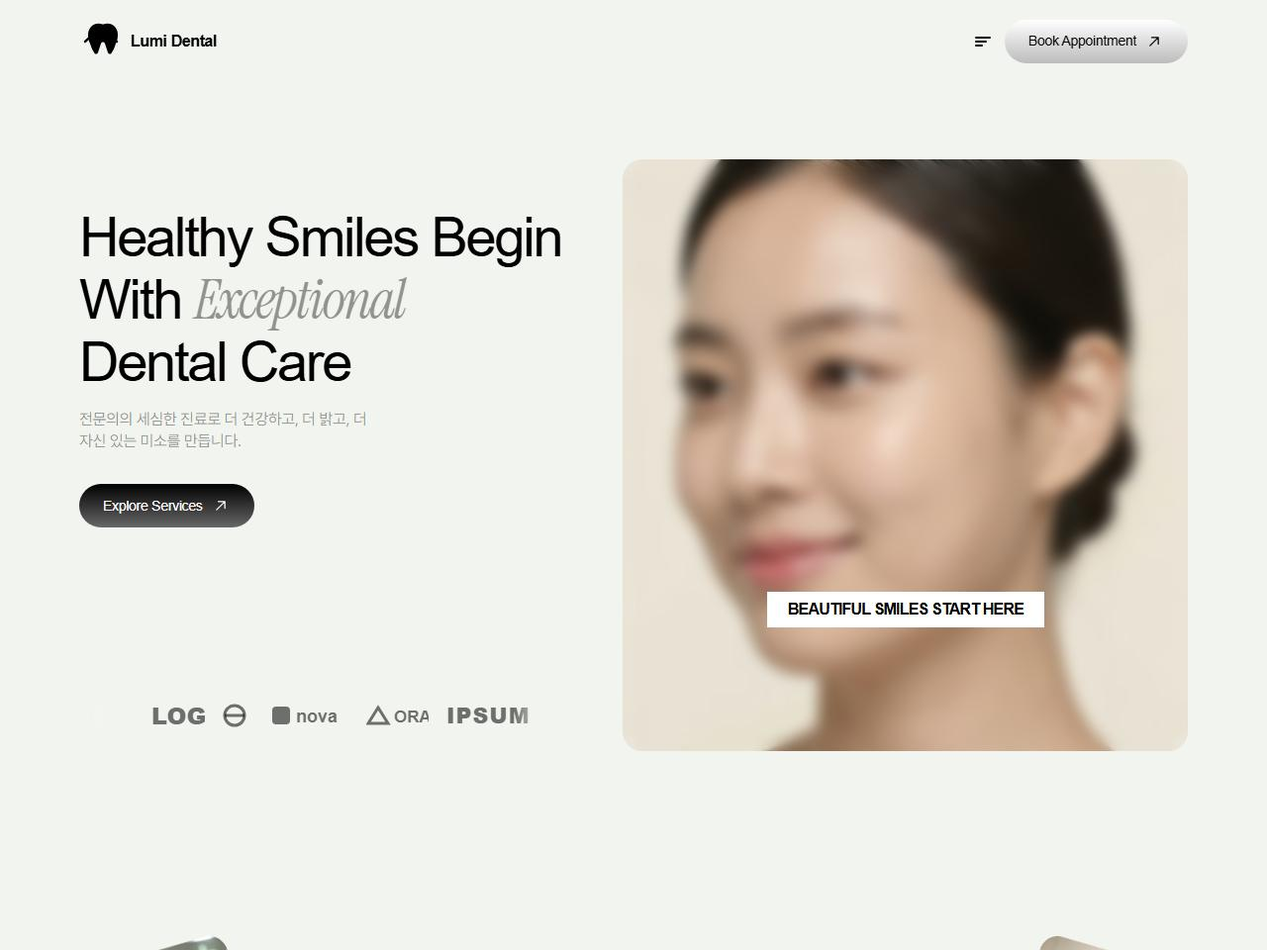
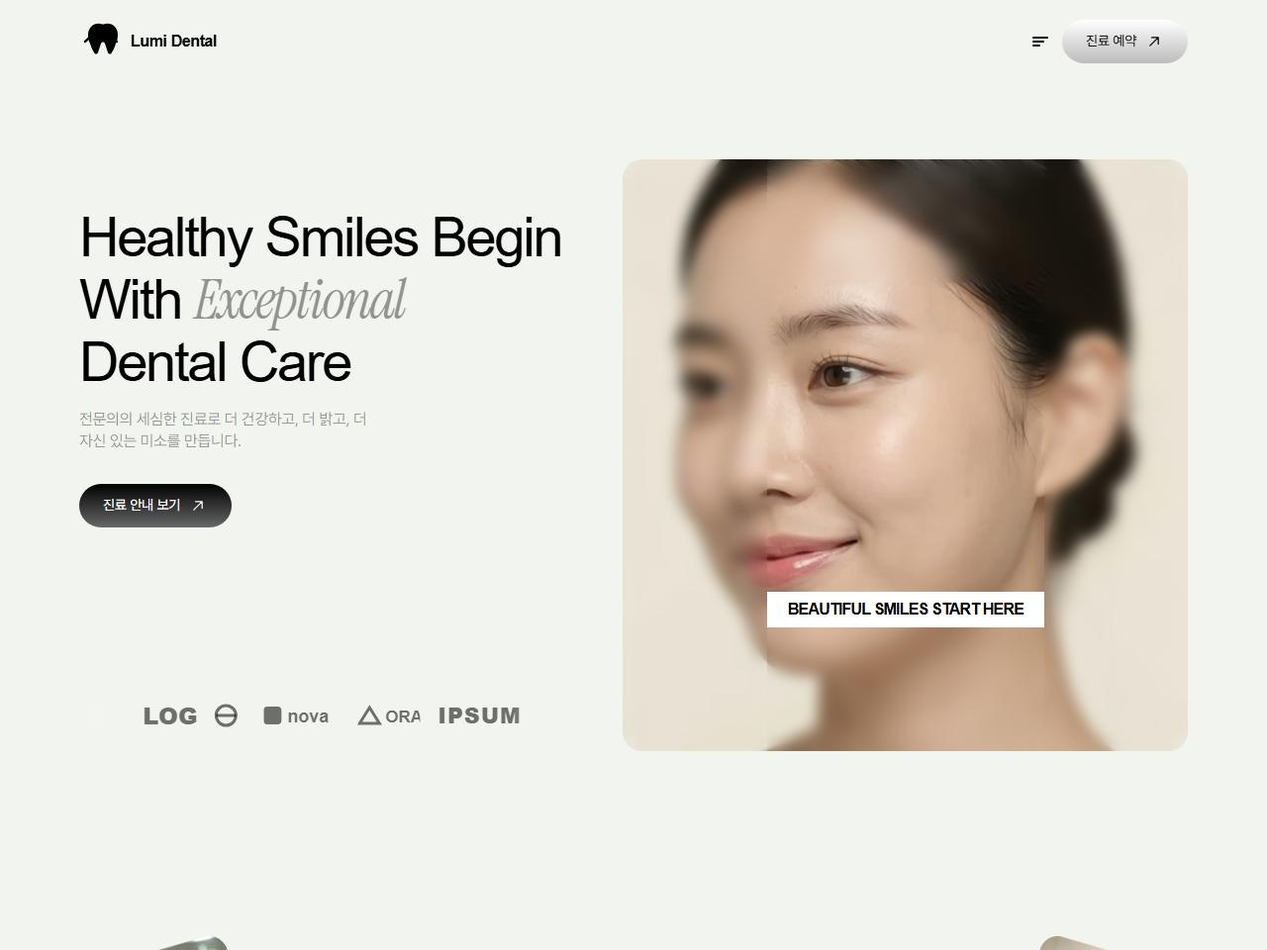
dental-a: 영어 문구 절반 한글화 · 히어로 영상 블러 덮개(4조각) · 한글 강조 서체 정리

diff --git a/public/templates/dental-a-basic/index.html b/public/templates/dental-a-basic/index.html
@@ -34,6 +34,9 @@ body{background:var(--bg);color:#000;font-family:"Helvetica Neue",Helvetica,Aria
 .p.ko{font-family:"Wanted Sans Variable",Inter,sans-serif;letter-spacing:-.3px}
 .h2{font-size:48px;line-height:56.64px;letter-spacing:-2.4px;font-weight:400}
 .h2 i,.h1 i,.h3 i{font-family:"Instrument Serif",serif;font-style:italic;color:var(--mute);letter-spacing:-2.4px}
+.h1.ko,.h2.ko{letter-spacing:-1.6px;font-weight:600}
+.h2 i.ko,.h1 i.ko,.h3.ko i{font-family:"Wanted Sans Variable",sans-serif;font-style:normal;font-weight:500;letter-spacing:-1.6px}
+.t-q .h3.ko i{line-height:inherit;letter-spacing:-.6px}
 .h1{font-size:56px;line-height:62.72px;letter-spacing:-2.24px;font-weight:400}
 .h1 i{letter-spacing:-2.24px}
 .h3{font-size:32px;line-height:36.48px;letter-spacing:-1.6px;font-weight:400}
@@ -97,8 +100,13 @@ body{background:var(--bg);color:#000;font-family:"Helvetica Neue",Helvetica,Aria
 .ticker svg{height:24px;width:auto;color:rgba(0,0,0,.55)}
 .hero-r{position:relative;width:571px;height:598px;border-radius:20px;overflow:clip;flex:0 0 auto}
 .hero-r>video{position:absolute;inset:0;width:100%;height:100%;object-fit:cover}
-/* 영상 위 블러 덮개 — 폴라로이드 창(146,125 280×348)만 구멍 */
-.hblur{position:absolute;inset:0;backdrop-filter:blur(7px);-webkit-backdrop-filter:blur(7px);clip-path:polygon(evenodd,0 0,100% 0,100% 100%,0 100%,0 0,146px 125px,146px 473px,426px 473px,426px 125px,146px 125px)}
+/* 영상 위 블러 덮개 — 폴라로이드 창(146,125 280×348) 둘레 4조각 (구멍 좌표는 --hx/--hy/--hw/--hh) */
+.hero-r{--hx:146px;--hy:125px;--hw:280px;--hh:348px}
+.hblur i{position:absolute;backdrop-filter:blur(7px);-webkit-backdrop-filter:blur(7px)}
+.hblur .hl{left:0;top:0;bottom:0;width:var(--hx)}
+.hblur .hr{left:calc(var(--hx) + var(--hw));right:0;top:0;bottom:0}
+.hblur .ht{left:var(--hx);width:var(--hw);top:0;height:var(--hy)}
+.hblur .hb{left:var(--hx);width:var(--hw);top:calc(var(--hy) + var(--hh));bottom:0}
 .polaroid{position:absolute;left:146px;top:125px;width:280px;height:348px;display:flex;flex-direction:column;justify-content:flex-end;overflow:clip;z-index:1}
 .polaroid b{position:relative}
 .polaroid b{display:block;background:#fff;padding:9px 20px;font-size:16px;line-height:18.24px;letter-spacing:-.8px;font-weight:700;text-align:center;text-transform:uppercase}
@@ -339,7 +347,7 @@ html.js .hero .btn{animation:up70 1s cubic-bezier(.16,1,.3,1) .6s both}
   .hero-l{height:auto;gap:64px;padding-bottom:0;width:100%}
   .hero-r{width:100%;height:550px}
   .polaroid{left:50%;margin-left:-140px;top:100px}
-  .hblur{clip-path:polygon(evenodd,0 0,100% 0,100% 100%,0 100%,0 0,calc(50% - 140px) 100px,calc(50% - 140px) 448px,calc(50% + 140px) 448px,calc(50% + 140px) 100px,calc(50% - 140px) 100px)}
+  .hero-r{--hx:calc(50% - 140px);--hy:100px}
   .about-t .h2{white-space:normal;max-width:760px}
   .about-t img{display:none}
   .cards4{flex-wrap:wrap}
@@ -451,7 +459,7 @@ html.js .hero .btn{animation:up70 1s cubic-bezier(.16,1,.3,1) .6s both}
   .why-img{display:none}
   .hero-r{aspect-ratio:571/598}
   .polaroid{top:50%;margin-top:-92px}
-  .hblur{clip-path:polygon(evenodd,0 0,100% 0,100% 100%,0 100%,0 0,calc(50% - 74px) calc(50% - 92px),calc(50% - 74px) calc(50% + 92px),calc(50% + 74px) calc(50% + 92px),calc(50% + 74px) calc(50% - 92px),calc(50% - 74px) calc(50% - 92px))}
+  .hero-r{--hx:calc(50% - 74px);--hy:calc(50% - 92px);--hw:148px;--hh:184px}
   .ba{aspect-ratio:728/371}
   .em .slat{aspect-ratio:3/2}
   .doc .doc-d.m{display:flex}
@@ -530,7 +538,7 @@ html.js .hero .btn{animation:up70 1s cubic-bezier(.16,1,.3,1) .6s both}
       <a href="#" class="logo" aria-label="루미덴탈 홈"><svg><use href="#i-tooth"/></svg><b>Lumi Dental</b></a>
       <button class="burger" type="button" aria-label="메뉴 열기" aria-expanded="false" aria-controls="menu"><i></i><i></i><i></i></button>
     </div>
-    <a href="/contact?design=HOSP-1001" class="btn lt"><span class="tx"><span>Book Appointment</span><span>Book Appointment</span></span><span class="ar"><svg><use href="#i-arrow"/></svg><svg><use href="#i-arrow"/></svg></span></a>
+    <a href="/contact?design=HOSP-1001" class="btn lt"><span class="tx"><span>진료 예약</span><span>진료 예약</span></span><span class="ar"><svg><use href="#i-arrow"/></svg><svg><use href="#i-arrow"/></svg></span></a>
   </div>
   <nav class="menu" id="menu" aria-label="전체 메뉴">
     <ul>
@@ -549,7 +557,7 @@ html.js .hero .btn{animation:up70 1s cubic-bezier(.16,1,.3,1) .6s both}
           <h1 class="h1">Healthy Smiles Begin<br>With <i>Exceptional</i><br>Dental Care</h1>
           <p class="p ko">전문의의 세심한 진료로 더 건강하고, 더 밝고, 더 자신 있는 미소를 만듭니다.</p>
         </div>
-        <a href="#services" class="btn"><span class="tx"><span>Explore Services</span><span>Explore Services</span></span><span class="ar"><svg><use href="#i-arrow"/></svg><svg><use href="#i-arrow"/></svg></span></a>
+        <a href="#services" class="btn"><span class="tx"><span>진료 안내 보기</span><span>진료 안내 보기</span></span><span class="ar"><svg><use href="#i-arrow"/></svg><svg><use href="#i-arrow"/></svg></span></a>
       </div>
       <div class="ticker" aria-label="협력 브랜드">
         <ul id="ticker">
@@ -566,7 +574,7 @@ html.js .hero .btn{animation:up70 1s cubic-bezier(.16,1,.3,1) .6s both}
     </div>
     <div class="hero-r">
       <video src="../dental-a/assets/hero.mp4" poster="../dental-a/assets/hero.jpg" autoplay muted loop playsinline aria-label="미소 짓는 환자 영상"></video>
-      <div class="hblur" aria-hidden="true"></div>
+      <div class="hblur" aria-hidden="true"><i class="hl"></i><i class="hr"></i><i class="ht"></i><i class="hb"></i></div>
       <div class="polaroid"><b>Beautiful smiles start here</b></div>
     </div>
   </div>
@@ -578,9 +586,9 @@ html.js .hero .btn{animation:up70 1s cubic-bezier(.16,1,.3,1) .6s both}
     <div class="about-t rv">
       <img class="l" src="../dental-a/assets/about-1.jpg" alt="" width="168" height="169">
       <img class="r" src="../dental-a/assets/about-2.jpg" alt="" width="168" height="169">
-      <h2 class="h2"><i>Trusted dental care,</i><br class="m"> advanced<br>technology, <i>and personalized</i> treatments<br>for healthier, confident <i>smiles.</i></h2>
+      <h2 class="h2 ko"><i class="ko">믿을 수 있는 진료,</i> 앞선 기술,<br>그리고 <i class="ko">나에게 맞춘</i> 치료로<br>더 건강하고 자신 있는 <i class="ko">미소를.</i></h2>
     </div>
-    <a href="/contact?design=HOSP-1001" class="btn rv" style="--d:.1s"><span class="tx"><span>Book Appointment</span><span>Book Appointment</span></span><span class="ar"><svg><use href="#i-arrow"/></svg><svg><use href="#i-arrow"/></svg></span></a>
+    <a href="/contact?design=HOSP-1001" class="btn rv" style="--d:.1s"><span class="tx"><span>진료 예약</span><span>진료 예약</span></span><span class="ar"><svg><use href="#i-arrow"/></svg><svg><use href="#i-arrow"/></svg></span></a>
   </div>
 </section>
 
@@ -623,7 +631,7 @@ html.js .hero .btn{animation:up70 1s cubic-bezier(.16,1,.3,1) .6s both}
 <!-- 결과: 비포 애프터 -->
 <section class="sec result" id="results">
   <div class="wrap">
-    <div class="head rv"><h2 class="h2">Real Results. Brighter,<br><i>Confident Smiles</i></h2></div>
+    <div class="head rv"><h2 class="h2 ko">치료 전과 후,<br><i class="ko">달라진 미소</i></h2></div>
     <div class="ba" id="ba">
       <img src="../dental-a/assets/before.jpg" alt="치료 전" width="1440" height="900">
       <img class="aft" src="../dental-a/assets/after.jpg" alt="치료 후" width="1440" height="900">
@@ -637,8 +645,8 @@ html.js .hero .btn{animation:up70 1s cubic-bezier(.16,1,.3,1) .6s both}
 <section class="sec em" id="emergency">
   <div class="wrap">
     <div class="head rv">
-      <div class="hh"><h2 class="h2">Expert Care When You <i>Need It Most.</i></h2><p class="p ko">갑작스러운 통증과 치아 외상은 예고 없이 찾아옵니다. 루미덴탈은 급한 치료가 필요한 순간에 빠르고 따뜻하게 대응합니다.</p></div>
-      <a href="tel:01048944905" class="btn"><span class="tx"><span>Get Emergency Care</span><span>Get Emergency Care</span></span><span class="ar"><svg><use href="#i-arrow"/></svg><svg><use href="#i-arrow"/></svg></span></a>
+      <div class="hh"><h2 class="h2 ko">가장 급할 때, <i class="ko">가장 먼저 찾는 치과</i></h2><p class="p ko">갑작스러운 통증과 치아 외상은 예고 없이 찾아옵니다. 루미덴탈은 급한 치료가 필요한 순간에 빠르고 따뜻하게 대응합니다.</p></div>
+      <a href="tel:01048944905" class="btn"><span class="tx"><span>응급 진료 문의</span><span>응급 진료 문의</span></span><span class="ar"><svg><use href="#i-arrow"/></svg><svg><use href="#i-arrow"/></svg></span></a>
     </div>
     <div class="slat" data-slat><img src="../dental-a/assets/emergency.jpg" alt="응급 진료 중인 의료진" width="930" height="538" loading="lazy" decoding="async"><div class="sl"><i></i><i></i><i></i><i></i><i></i></div></div>
   </div>
@@ -661,7 +669,7 @@ html.js .hero .btn{animation:up70 1s cubic-bezier(.16,1,.3,1) .6s both}
   <div class="wrap">
     <div class="jc">
       <div class="jc-top rv">
-        <div class="jc-h"><h2 class="h2">Your Journey To A<br><i>Healthier Smile</i></h2><p class="p ko">가장 건강하고 자신 있는 미소까지, 전문의가 한 걸음씩 안내합니다.</p></div>
+        <div class="jc-h"><h2 class="h2 ko">더 건강한 미소로<br><i class="ko">가는 네 단계</i></h2><p class="p ko">가장 건강하고 자신 있는 미소까지, 전문의가 한 걸음씩 안내합니다.</p></div>
         <div class="slat" data-slat><img src="../dental-a/assets/journey.jpg" alt="진료 중인 치과의사" width="645" height="442" loading="lazy" decoding="async"><div class="sl"><i></i><i></i><i></i><i></i><i></i></div></div>
       </div>
       <div class="jsteps">
@@ -678,7 +686,7 @@ html.js .hero .btn{animation:up70 1s cubic-bezier(.16,1,.3,1) .6s both}
 <!-- 의료진 -->
 <section class="sec exp" id="doctors">
   <div class="wrap">
-    <h2 class="h2 rv">Meet Our Expert<br><i>Dental Specialists</i></h2>
+    <h2 class="h2 ko rv">루미덴탈<br><i class="ko">의료진 소개</i></h2>
     <div class="docs">
       <a href="#" class="doc rv"><img src="../dental-a/assets/doc-1.jpg" alt="교정과 전문의 한지민" width="234" height="256" loading="lazy" decoding="async"><div class="doc-d m"><div class="nm"><h4 class="h4 ko">한지민 원장</h4><p class="p ko">치아 교정</p></div><div class="ex"><i></i><span class="p">Exp:</span><b>20+ Years</b></div></div></a>
       <a href="#" class="doc rv" style="--d:.1s"><img src="../dental-a/assets/doc-2.jpg" alt="임플란트 전문의 정우진" width="234" height="256" loading="lazy" decoding="async"><div class="doc-d m"><div class="nm"><h4 class="h4 ko">정우진 원장</h4><p class="p ko">임플란트</p></div><div class="ex"><i></i><span class="p">Exp:</span><b>20+ Years</b></div></div></a>
@@ -693,8 +701,8 @@ html.js .hero .btn{animation:up70 1s cubic-bezier(.16,1,.3,1) .6s both}
   <div class="wrap">
     <div class="slat" data-slat><img src="../dental-a/assets/stories.jpg" alt="웃고 있는 환자와 의사" width="540" height="359" loading="lazy" decoding="async"><div class="sl"><i></i><i></i><i></i><i></i><i></i></div></div>
     <div class="st-t rv">
-      <div class="hh"><h1 class="h1">Real Patients. Real<br>Smiles. <i>Real Experiences</i></h1><p class="p ko">모든 미소에는 이야기가 있습니다. 맞춤 진료와 첨단 치료, 따뜻한 태도가 삶을 어떻게 바꿨는지 확인해 보세요.</p></div>
-      <a href="#reviews" class="btn"><span class="tx"><span>Read Patient Stories</span><span>Read Patient Stories</span></span><span class="ar"><svg><use href="#i-arrow"/></svg><svg><use href="#i-arrow"/></svg></span></a>
+      <div class="hh"><h1 class="h1 ko">환자들이 직접<br>전하는 <i class="ko">진짜 이야기</i></h1><p class="p ko">모든 미소에는 이야기가 있습니다. 맞춤 진료와 첨단 치료, 따뜻한 태도가 삶을 어떻게 바꿨는지 확인해 보세요.</p></div>
+      <a href="#reviews" class="btn"><span class="tx"><span>환자 이야기 보기</span><span>환자 이야기 보기</span></span><span class="ar"><svg><use href="#i-arrow"/></svg><svg><use href="#i-arrow"/></svg></span></a>
     </div>
   </div>
 </section>
@@ -734,7 +742,7 @@ html.js .hero .btn{animation:up70 1s cubic-bezier(.16,1,.3,1) .6s both}
   <div class="wrap">
     <div class="faq-h rv">
       <div class="hh"><h2 class="h2">Frequently Asked <i>Questions</i></h2><p class="p ko">진료와 치료에 대해 환자분들이 가장 많이 묻는 질문을 모았습니다. 더 궁금한 점은 언제든 문의해 주세요.</p></div>
-      <a href="/contact?design=HOSP-1001" class="btn sm"><span class="tx"><span>All FAQ</span><span>All FAQ</span></span><span class="ar"><svg><use href="#i-arrow"/></svg><svg><use href="#i-arrow"/></svg></span></a>
+      <a href="/contact?design=HOSP-1001" class="btn sm"><span class="tx"><span>전체 질문 보기</span><span>전체 질문 보기</span></span><span class="ar"><svg><use href="#i-arrow"/></svg><svg><use href="#i-arrow"/></svg></span></a>
     </div>
     <div class="faqs">
       <div class="qa open rv y50"><button class="qa-q" type="button" aria-expanded="true"><span class="qn"><span class="num">01</span><span class="h4 ko">치과는 얼마나 자주 방문해야 하나요?</span></span><span class="ic"><i></i></span></button><div class="qa-a"><div><p class="p ko">정기 검진과 스케일링을 위해 6개월에 한 번 방문을 권합니다. 문제를 조기에 발견하고 구강 건강을 가장 좋은 상태로 유지할 수 있습니다.</p></div></div></div>
@@ -751,7 +759,7 @@ html.js .hero .btn{animation:up70 1s cubic-bezier(.16,1,.3,1) .6s both}
   <div class="wrap">
     <div class="ins-h rv">
       <h2 class="h2">Dental <i>Insights</i></h2>
-      <a href="#" class="btn sm"><span class="tx"><span>View All</span><span>View All</span></span><span class="ar"><svg><use href="#i-arrow"/></svg><svg><use href="#i-arrow"/></svg></span></a>
+      <a href="#" class="btn sm"><span class="tx"><span>전체 보기</span><span>전체 보기</span></span><span class="ar"><svg><use href="#i-arrow"/></svg><svg><use href="#i-arrow"/></svg></span></a>
     </div>
     <div class="icards">
       <a href="#" class="ic-c rv"><span class="h6 cat ko">치아 관리 팁</span><img src="../dental-a/assets/insight-1.jpg" alt="" width="265" height="178" decoding="async"><h5 class="h5 ko">더 건강하고 밝은 미소를 위한 하루 다섯 가지 습관</h5></a>
@@ -766,7 +774,7 @@ html.js .hero .btn{animation:up70 1s cubic-bezier(.16,1,.3,1) .6s both}
 <section class="sec find" id="visit">
   <div class="wrap">
     <div class="find-top rv">
-      <div class="find-h"><h2 class="h2">Visit <i>Lumi Dental</i></h2><p class="p ko">편안함과 세심함, 그리고 자신 있는 미소를 중심에 둔 진료 공간입니다.</p></div>
+      <div class="find-h"><h2 class="h2 ko">루미덴탈 <i class="ko">오시는 길</i></h2><p class="p ko">편안함과 세심함, 그리고 자신 있는 미소를 중심에 둔 진료 공간입니다.</p></div>
       <div class="slat" data-slat><img src="../dental-a/assets/clinic.jpg" alt="루미덴탈 건물 외관" width="644" height="318" decoding="async"><div class="sl"><i></i><i></i><i></i><i></i><i></i></div></div>
     </div>
     <div class="find-b rv">
@@ -778,7 +786,7 @@ html.js .hero .btn{animation:up70 1s cubic-bezier(.16,1,.3,1) .6s both}
       </ul>
       <div class="find-r">
         <p class="p ko">서울 강남구 테헤란로 12길 34, 루미타워 5층</p>
-        <a href="#" class="btn"><span class="tx"><span>Get Directions</span><span>Get Directions</span></span><span class="ar"><svg><use href="#i-arrow"/></svg><svg><use href="#i-arrow"/></svg></span></a>
+        <a href="#" class="btn"><span class="tx"><span>길 찾기</span><span>길 찾기</span></span><span class="ar"><svg><use href="#i-arrow"/></svg><svg><use href="#i-arrow"/></svg></span></a>
       </div>
     </div>
   </div>
@@ -800,9 +808,9 @@ html.js .hero .btn{animation:up70 1s cubic-bezier(.16,1,.3,1) .6s both}
         <div class="fcol"><p class="h6">SERVICES</p><ul class="ko"><li><a href="#services">일반 진료</a></li><li><a href="#services">심미 치료</a></li><li><a href="#services">임플란트</a></li><li><a href="#services">치아 교정</a></li><li><a href="#emergency">응급 진료</a></li></ul></div>
         <div class="fcol"><p class="h6">GET IN TOUCH</p>
           <ul class="fct">
-            <li><svg><use href="#i-phone"/></svg><div class="lb"><small>CALL US</small><a href="tel:01048944905">010-4894-4905</a></div></li>
-            <li><svg><use href="#i-mail"/></svg><div class="lb"><small>EMAIL US</small><a href="mailto:6gsmake@gmail.com">6gsmake@gmail.com</a></div></li>
-            <li><svg><use href="#i-pin"/></svg><div class="lb"><small>VISIT US</small><a href="#visit" class="ko">서울 강남구 테헤란로 12길 34, 루미타워 5층</a></div></li>
+            <li><svg><use href="#i-phone"/></svg><div class="lb"><small class="ko">전화</small><a href="tel:01048944905">010-4894-4905</a></div></li>
+            <li><svg><use href="#i-mail"/></svg><div class="lb"><small class="ko">이메일</small><a href="mailto:6gsmake@gmail.com">6gsmake@gmail.com</a></div></li>
+            <li><svg><use href="#i-pin"/></svg><div class="lb"><small class="ko">주소</small><a href="#visit" class="ko">서울 강남구 테헤란로 12길 34, 루미타워 5층</a></div></li>
           </ul>
         </div>
       </div>

diff --git a/public/templates/dental-a/index.html b/public/templates/dental-a/index.html
@@ -34,6 +34,9 @@ body{background:var(--bg);color:#000;font-family:"Helvetica Neue",Helvetica,Aria
 .p.ko{font-family:"Wanted Sans Variable",Inter,sans-serif;letter-spacing:-.3px}
 .h2{font-size:48px;line-height:56.64px;letter-spacing:-2.4px;font-weight:400}
 .h2 i,.h1 i,.h3 i{font-family:"Instrument Serif",serif;font-style:italic;color:var(--mute);letter-spacing:-2.4px}
+.h1.ko,.h2.ko{letter-spacing:-1.6px;font-weight:600}
+.h2 i.ko,.h1 i.ko,.h3.ko i{font-family:"Wanted Sans Variable",sans-serif;font-style:normal;font-weight:500;letter-spacing:-1.6px}
+.t-q .h3.ko i{line-height:inherit;letter-spacing:-.6px}
 .h1{font-size:56px;line-height:62.72px;letter-spacing:-2.24px;font-weight:400}
 .h1 i{letter-spacing:-2.24px}
 .h3{font-size:32px;line-height:36.48px;letter-spacing:-1.6px;font-weight:400}
@@ -97,8 +100,13 @@ body{background:var(--bg);color:#000;font-family:"Helvetica Neue",Helvetica,Aria
 .ticker svg{height:24px;width:auto;color:rgba(0,0,0,.55)}
 .hero-r{position:relative;width:571px;height:598px;border-radius:20px;overflow:clip;flex:0 0 auto}
 .hero-r>video{position:absolute;inset:0;width:100%;height:100%;object-fit:cover}
-/* 영상 위 블러 덮개 — 폴라로이드 창(146,125 280×348)만 구멍 */
-.hblur{position:absolute;inset:0;backdrop-filter:blur(7px);-webkit-backdrop-filter:blur(7px);clip-path:polygon(evenodd,0 0,100% 0,100% 100%,0 100%,0 0,146px 125px,146px 473px,426px 473px,426px 125px,146px 125px)}
+/* 영상 위 블러 덮개 — 폴라로이드 창(146,125 280×348) 둘레 4조각 (구멍 좌표는 --hx/--hy/--hw/--hh) */
+.hero-r{--hx:146px;--hy:125px;--hw:280px;--hh:348px}
+.hblur i{position:absolute;backdrop-filter:blur(7px);-webkit-backdrop-filter:blur(7px)}
+.hblur .hl{left:0;top:0;bottom:0;width:var(--hx)}
+.hblur .hr{left:calc(var(--hx) + var(--hw));right:0;top:0;bottom:0}
+.hblur .ht{left:var(--hx);width:var(--hw);top:0;height:var(--hy)}
+.hblur .hb{left:var(--hx);width:var(--hw);top:calc(var(--hy) + var(--hh));bottom:0}
 .polaroid{position:absolute;left:146px;top:125px;width:280px;height:348px;display:flex;flex-direction:column;justify-content:flex-end;overflow:clip;z-index:1}
 .polaroid b{position:relative}
 .polaroid b{display:block;background:#fff;padding:9px 20px;font-size:16px;line-height:18.24px;letter-spacing:-.8px;font-weight:700;text-align:center;text-transform:uppercase}
@@ -339,7 +347,7 @@ html.js .hero .btn{animation:up70 1s cubic-bezier(.16,1,.3,1) .6s both}
   .hero-l{height:auto;gap:64px;padding-bottom:0;width:100%}
   .hero-r{width:100%;height:550px}
   .polaroid{left:50%;margin-left:-140px;top:100px}
-  .hblur{clip-path:polygon(evenodd,0 0,100% 0,100% 100%,0 100%,0 0,calc(50% - 140px) 100px,calc(50% - 140px) 448px,calc(50% + 140px) 448px,calc(50% + 140px) 100px,calc(50% - 140px) 100px)}
+  .hero-r{--hx:calc(50% - 140px);--hy:100px}
   .about-t .h2{white-space:normal;max-width:760px}
   .about-t img{display:none}
   .cards4{flex-wrap:wrap}
@@ -451,7 +459,7 @@ html.js .hero .btn{animation:up70 1s cubic-bezier(.16,1,.3,1) .6s both}
   .why-img{display:none}
   .hero-r{aspect-ratio:571/598}
   .polaroid{top:50%;margin-top:-92px}
-  .hblur{clip-path:polygon(evenodd,0 0,100% 0,100% 100%,0 100%,0 0,calc(50% - 74px) calc(50% - 92px),calc(50% - 74px) calc(50% + 92px),calc(50% + 74px) calc(50% + 92px),calc(50% + 74px) calc(50% - 92px),calc(50% - 74px) calc(50% - 92px))}
+  .hero-r{--hx:calc(50% - 74px);--hy:calc(50% - 92px);--hw:148px;--hh:184px}
   .ba{aspect-ratio:728/371}
   .em .slat{aspect-ratio:3/2}
   .doc .doc-d.m{display:flex}
@@ -526,7 +534,7 @@ html.js .hero .btn{animation:up70 1s cubic-bezier(.16,1,.3,1) .6s both}
       <a href="#" class="logo" aria-label="루미덴탈 홈"><svg><use href="#i-tooth"/></svg><b>Lumi Dental</b></a>
       <button class="burger" type="button" aria-label="메뉴 열기" aria-expanded="false" aria-controls="menu"><i></i><i></i><i></i></button>
     </div>
-    <a href="/contact?design=HOSP-1001" class="btn lt"><span class="tx"><span>Book Appointment</span><span>Book Appointment</span></span><span class="ar"><svg><use href="#i-arrow"/></svg><svg><use href="#i-arrow"/></svg></span></a>
+    <a href="/contact?design=HOSP-1001" class="btn lt"><span class="tx"><span>진료 예약</span><span>진료 예약</span></span><span class="ar"><svg><use href="#i-arrow"/></svg><svg><use href="#i-arrow"/></svg></span></a>
   </div>
   <nav class="menu" id="menu" aria-label="전체 메뉴">
     <ul>
@@ -545,7 +553,7 @@ html.js .hero .btn{animation:up70 1s cubic-bezier(.16,1,.3,1) .6s both}
           <h1 class="h1">Healthy Smiles Begin<br>With <i>Exceptional</i><br>Dental Care</h1>
           <p class="p ko">전문의의 세심한 진료로 더 건강하고, 더 밝고, 더 자신 있는 미소를 만듭니다.</p>
         </div>
-        <a href="#services" class="btn"><span class="tx"><span>Explore Services</span><span>Explore Services</span></span><span class="ar"><svg><use href="#i-arrow"/></svg><svg><use href="#i-arrow"/></svg></span></a>
+        <a href="#services" class="btn"><span class="tx"><span>진료 안내 보기</span><span>진료 안내 보기</span></span><span class="ar"><svg><use href="#i-arrow"/></svg><svg><use href="#i-arrow"/></svg></span></a>
       </div>
       <div class="ticker" aria-label="협력 브랜드">
         <ul id="ticker">
@@ -562,7 +570,7 @@ html.js .hero .btn{animation:up70 1s cubic-bezier(.16,1,.3,1) .6s both}
     </div>
     <div class="hero-r">
       <video src="./assets/hero.mp4" poster="./assets/hero.jpg" autoplay muted loop playsinline aria-label="미소 짓는 환자 영상"></video>
-      <div class="hblur" aria-hidden="true"></div>
+      <div class="hblur" aria-hidden="true"><i class="hl"></i><i class="hr"></i><i class="ht"></i><i class="hb"></i></div>
       <div class="polaroid"><b>Beautiful smiles start here</b></div>
     </div>
   </div>
@@ -574,9 +582,9 @@ html.js .hero .btn{animation:up70 1s cubic-bezier(.16,1,.3,1) .6s both}
     <div class="about-t rv">
       <img class="l" src="./assets/about-1.jpg" alt="" width="168" height="169">
       <img class="r" src="./assets/about-2.jpg" alt="" width="168" height="169">
-      <h2 class="h2"><i>Trusted dental care,</i><br class="m"> advanced<br>technology, <i>and personalized</i> treatments<br>for healthier, confident <i>smiles.</i></h2>
+      <h2 class="h2 ko"><i class="ko">믿을 수 있는 진료,</i> 앞선 기술,<br>그리고 <i class="ko">나에게 맞춘</i> 치료로<br>더 건강하고 자신 있는 <i class="ko">미소를.</i></h2>
     </div>
-    <a href="/contact?design=HOSP-1001" class="btn rv" style="--d:.1s"><span class="tx"><span>Book Appointment</span><span>Book Appointment</span></span><span class="ar"><svg><use href="#i-arrow"/></svg><svg><use href="#i-arrow"/></svg></span></a>
+    <a href="/contact?design=HOSP-1001" class="btn rv" style="--d:.1s"><span class="tx"><span>진료 예약</span><span>진료 예약</span></span><span class="ar"><svg><use href="#i-arrow"/></svg><svg><use href="#i-arrow"/></svg></span></a>
   </div>
 </section>
 
@@ -619,7 +627,7 @@ html.js .hero .btn{animation:up70 1s cubic-bezier(.16,1,.3,1) .6s both}
 <!-- 결과: 비포 애프터 -->
 <section class="sec result" id="results">
   <div class="wrap">
-    <div class="head rv"><h2 class="h2">Real Results. Brighter,<br><i>Confident Smiles</i></h2></div>
+    <div class="head rv"><h2 class="h2 ko">치료 전과 후,<br><i class="ko">달라진 미소</i></h2></div>
     <div class="ba" id="ba">
       <img src="./assets/before.jpg" alt="치료 전" width="1440" height="900">
       <img class="aft" src="./assets/after.jpg" alt="치료 후" width="1440" height="900">
@@ -633,8 +641,8 @@ html.js .hero .btn{animation:up70 1s cubic-bezier(.16,1,.3,1) .6s both}
 <section class="sec em" id="emergency">
   <div class="wrap">
     <div class="head rv">
-      <div class="hh"><h2 class="h2">Expert Care When You <i>Need It Most.</i></h2><p class="p ko">갑작스러운 통증과 치아 외상은 예고 없이 찾아옵니다. 루미덴탈은 급한 치료가 필요한 순간에 빠르고 따뜻하게 대응합니다.</p></div>
-      <a href="tel:01048944905" class="btn"><span class="tx"><span>Get Emergency Care</span><span>Get Emergency Care</span></span><span class="ar"><svg><use href="#i-arrow"/></svg><svg><use href="#i-arrow"/></svg></span></a>
+      <div class="hh"><h2 class="h2 ko">가장 급할 때, <i class="ko">가장 먼저 찾는 치과</i></h2><p class="p ko">갑작스러운 통증과 치아 외상은 예고 없이 찾아옵니다. 루미덴탈은 급한 치료가 필요한 순간에 빠르고 따뜻하게 대응합니다.</p></div>
+      <a href="tel:01048944905" class="btn"><span class="tx"><span>응급 진료 문의</span><span>응급 진료 문의</span></span><span class="ar"><svg><use href="#i-arrow"/></svg><svg><use href="#i-arrow"/></svg></span></a>
     </div>
     <div class="slat" data-slat><img src="./assets/emergency.jpg" alt="응급 진료 중인 의료진" width="930" height="538" loading="lazy" decoding="async"><div class="sl"><i></i><i></i><i></i><i></i><i></i></div></div>
   </div>
@@ -657,7 +665,7 @@ html.js .hero .btn{animation:up70 1s cubic-bezier(.16,1,.3,1) .6s both}
   <div class="wrap">
     <div class="jc">
       <div class="jc-top rv">
-        <div class="jc-h"><h2 class="h2">Your Journey To A<br><i>Healthier Smile</i></h2><p class="p ko">가장 건강하고 자신 있는 미소까지, 전문의가 한 걸음씩 안내합니다.</p></div>
+        <div class="jc-h"><h2 class="h2 ko">더 건강한 미소로<br><i class="ko">가는 네 단계</i></h2><p class="p ko">가장 건강하고 자신 있는 미소까지, 전문의가 한 걸음씩 안내합니다.</p></div>
         <div class="slat" data-slat><img src="./assets/journey.jpg" alt="진료 중인 치과의사" width="645" height="442" loading="lazy" decoding="async"><div class="sl"><i></i><i></i><i></i><i></i><i></i></div></div>
       </div>
       <div class="jsteps">
@@ -674,7 +682,7 @@ html.js .hero .btn{animation:up70 1s cubic-bezier(.16,1,.3,1) .6s both}
 <!-- 의료진 -->
 <section class="sec exp" id="doctors">
   <div class="wrap">
-    <h2 class="h2 rv">Meet Our Expert<br><i>Dental Specialists</i></h2>
+    <h2 class="h2 ko rv">루미덴탈<br><i class="ko">의료진 소개</i></h2>
     <div class="docs">
       <a href="#" class="doc rv"><img src="./assets/doc-1.jpg" alt="교정과 전문의 한지민" width="234" height="256" loading="lazy" decoding="async"><div class="doc-d m"><div class="nm"><h4 class="h4 ko">한지민 원장</h4><p class="p ko">치아 교정</p></div><div class="ex"><i></i><span class="p">Exp:</span><b>20+ Years</b></div></div></a>
       <a href="#" class="doc rv" style="--d:.1s"><img src="./assets/doc-2.jpg" alt="임플란트 전문의 정우진" width="234" height="256" loading="lazy" decoding="async"><div class="doc-d m"><div class="nm"><h4 class="h4 ko">정우진 원장</h4><p class="p ko">임플란트</p></div><div class="ex"><i></i><span class="p">Exp:</span><b>20+ Years</b></div></div></a>
@@ -689,8 +697,8 @@ html.js .hero .btn{animation:up70 1s cubic-bezier(.16,1,.3,1) .6s both}
   <div class="wrap">
     <div class="slat" data-slat><img src="./assets/stories.jpg" alt="웃고 있는 환자와 의사" width="540" height="359" loading="lazy" decoding="async"><div class="sl"><i></i><i></i><i></i><i></i><i></i></div></div>
     <div class="st-t rv">
-      <div class="hh"><h1 class="h1">Real Patients. Real<br>Smiles. <i>Real Experiences</i></h1><p class="p ko">모든 미소에는 이야기가 있습니다. 맞춤 진료와 첨단 치료, 따뜻한 태도가 삶을 어떻게 바꿨는지 확인해 보세요.</p></div>
-      <a href="#reviews" class="btn"><span class="tx"><span>Read Patient Stories</span><span>Read Patient Stories</span></span><span class="ar"><svg><use href="#i-arrow"/></svg><svg><use href="#i-arrow"/></svg></span></a>
+      <div class="hh"><h1 class="h1 ko">환자들이 직접<br>전하는 <i class="ko">진짜 이야기</i></h1><p class="p ko">모든 미소에는 이야기가 있습니다. 맞춤 진료와 첨단 치료, 따뜻한 태도가 삶을 어떻게 바꿨는지 확인해 보세요.</p></div>
+      <a href="#reviews" class="btn"><span class="tx"><span>환자 이야기 보기</span><span>환자 이야기 보기</span></span><span class="ar"><svg><use href="#i-arrow"/></svg><svg><use href="#i-arrow"/></svg></span></a>
     </div>
   </div>
 </section>
@@ -730,7 +738,7 @@ html.js .hero .btn{animation:up70 1s cubic-bezier(.16,1,.3,1) .6s both}
   <div class="wrap">
     <div class="faq-h rv">
       <div class="hh"><h2 class="h2">Frequently Asked <i>Questions</i></h2><p class="p ko">진료와 치료에 대해 환자분들이 가장 많이 묻는 질문을 모았습니다. 더 궁금한 점은 언제든 문의해 주세요.</p></div>
-      <a href="/contact?design=HOSP-1001" class="btn sm"><span class="tx"><span>All FAQ</span><span>All FAQ</span></span><span class="ar"><svg><use href="#i-arrow"/></svg><svg><use href="#i-arrow"/></svg></span></a>
+      <a href="/contact?design=HOSP-1001" class="btn sm"><span class="tx"><span>전체 질문 보기</span><span>전체 질문 보기</span></span><span class="ar"><svg><use href="#i-arrow"/></svg><svg><use href="#i-arrow"/></svg></span></a>
     </div>
     <div class="faqs">
       <div class="qa open rv y50"><button class="qa-q" type="button" aria-expanded="true"><span class="qn"><span class="num">01</span><span class="h4 ko">치과는 얼마나 자주 방문해야 하나요?</span></span><span class="ic"><i></i></span></button><div class="qa-a"><div><p class="p ko">정기 검진과 스케일링을 위해 6개월에 한 번 방문을 권합니다. 문제를 조기에 발견하고 구강 건강을 가장 좋은 상태로 유지할 수 있습니다.</p></div></div></div>
@@ -747,7 +755,7 @@ html.js .hero .btn{animation:up70 1s cubic-bezier(.16,1,.3,1) .6s both}
   <div class="wrap">
     <div class="ins-h rv">
       <h2 class="h2">Dental <i>Insights</i></h2>
-      <a href="#" class="btn sm"><span class="tx"><span>View All</span><span>View All</span></span><span class="ar"><svg><use href="#i-arrow"/></svg><svg><use href="#i-arrow"/></svg></span></a>
+      <a href="#" class="btn sm"><span class="tx"><span>전체 보기</span><span>전체 보기</span></span><span class="ar"><svg><use href="#i-arrow"/></svg><svg><use href="#i-arrow"/></svg></span></a>
     </div>
     <div class="icards">
       <a href="#" class="ic-c rv"><span class="h6 cat ko">치아 관리 팁</span><img src="./assets/insight-1.jpg" alt="" width="265" height="178" decoding="async"><h5 class="h5 ko">더 건강하고 밝은 미소를 위한 하루 다섯 가지 습관</h5></a>
@@ -762,7 +770,7 @@ html.js .hero .btn{animation:up70 1s cubic-bezier(.16,1,.3,1) .6s both}
 <section class="sec find" id="visit">
   <div class="wrap">
     <div class="find-top rv">
-      <div class="find-h"><h2 class="h2">Visit <i>Lumi Dental</i></h2><p class="p ko">편안함과 세심함, 그리고 자신 있는 미소를 중심에 둔 진료 공간입니다.</p></div>
+      <div class="find-h"><h2 class="h2 ko">루미덴탈 <i class="ko">오시는 길</i></h2><p class="p ko">편안함과 세심함, 그리고 자신 있는 미소를 중심에 둔 진료 공간입니다.</p></div>
       <div class="slat" data-slat><img src="./assets/clinic.jpg" alt="루미덴탈 건물 외관" width="644" height="318" decoding="async"><div class="sl"><i></i><i></i><i></i><i></i><i></i></div></div>
     </div>
     <div class="find-b rv">
@@ -774,7 +782,7 @@ html.js .hero .btn{animation:up70 1s cubic-bezier(.16,1,.3,1) .6s both}
       </ul>
       <div class="find-r">
         <p class="p ko">서울 강남구 테헤란로 12길 34, 루미타워 5층</p>
-        <a href="#" class="btn"><span class="tx"><span>Get Directions</span><span>Get Directions</span></span><span class="ar"><svg><use href="#i-arrow"/></svg><svg><use href="#i-arrow"/></svg></span></a>
+        <a href="#" class="btn"><span class="tx"><span>길 찾기</span><span>길 찾기</span></span><span class="ar"><svg><use href="#i-arrow"/></svg><svg><use href="#i-arrow"/></svg></span></a>
       </div>
     </div>
   </div>
@@ -796,9 +804,9 @@ html.js .hero .btn{animation:up70 1s cubic-bezier(.16,1,.3,1) .6s both}
         <div class="fcol"><p class="h6">SERVICES</p><ul class="ko"><li><a href="#services">일반 진료</a></li><li><a href="#services">심미 치료</a></li><li><a href="#services">임플란트</a></li><li><a href="#services">치아 교정</a></li><li><a href="#emergency">응급 진료</a></li></ul></div>
         <div class="fcol"><p class="h6">GET IN TOUCH</p>
           <ul class="fct">
-            <li><svg><use href="#i-phone"/></svg><div class="lb"><small>CALL US</small><a href="tel:01048944905">010-4894-4905</a></div></li>
-            <li><svg><use href="#i-mail"/></svg><div class="lb"><small>EMAIL US</small><a href="mailto:6gsmake@gmail.com">6gsmake@gmail.com</a></div></li>
-            <li><svg><use href="#i-pin"/></svg><div class="lb"><small>VISIT US</small><a href="#visit" class="ko">서울 강남구 테헤란로 12길 34, 루미타워 5층</a></div></li>
+            <li><svg><use href="#i-phone"/></svg><div class="lb"><small class="ko">전화</small><a href="tel:01048944905">010-4894-4905</a></div></li>
+            <li><svg><use href="#i-mail"/></svg><div class="lb"><small class="ko">이메일</small><a href="mailto:6gsmake@gmail.com">6gsmake@gmail.com</a></div></li>
+            <li><svg><use href="#i-pin"/></svg><div class="lb"><small class="ko">주소</small><a href="#visit" class="ko">서울 강남구 테헤란로 12길 34, 루미타워 5층</a></div></li>
           </ul>
         </div>
       </div>
